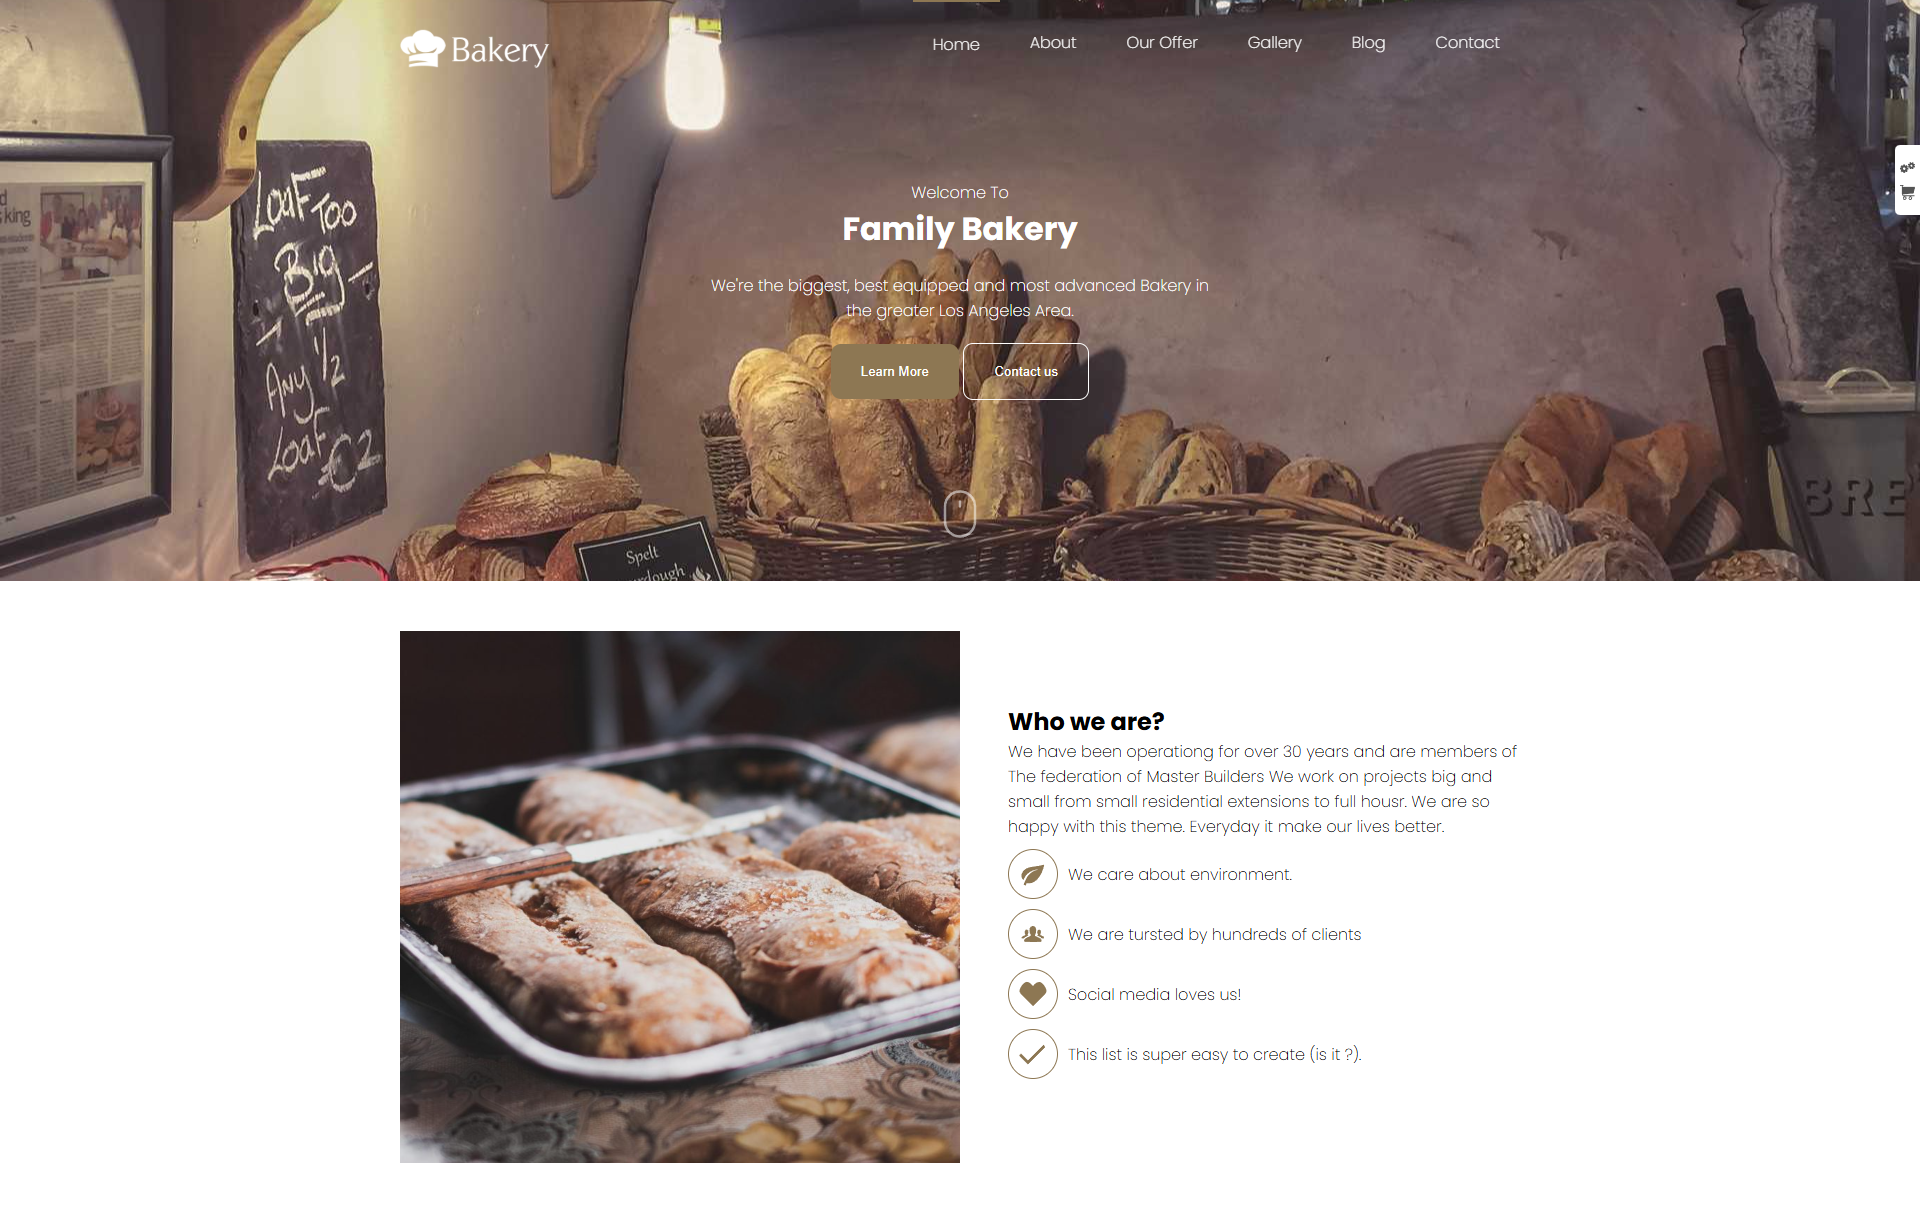
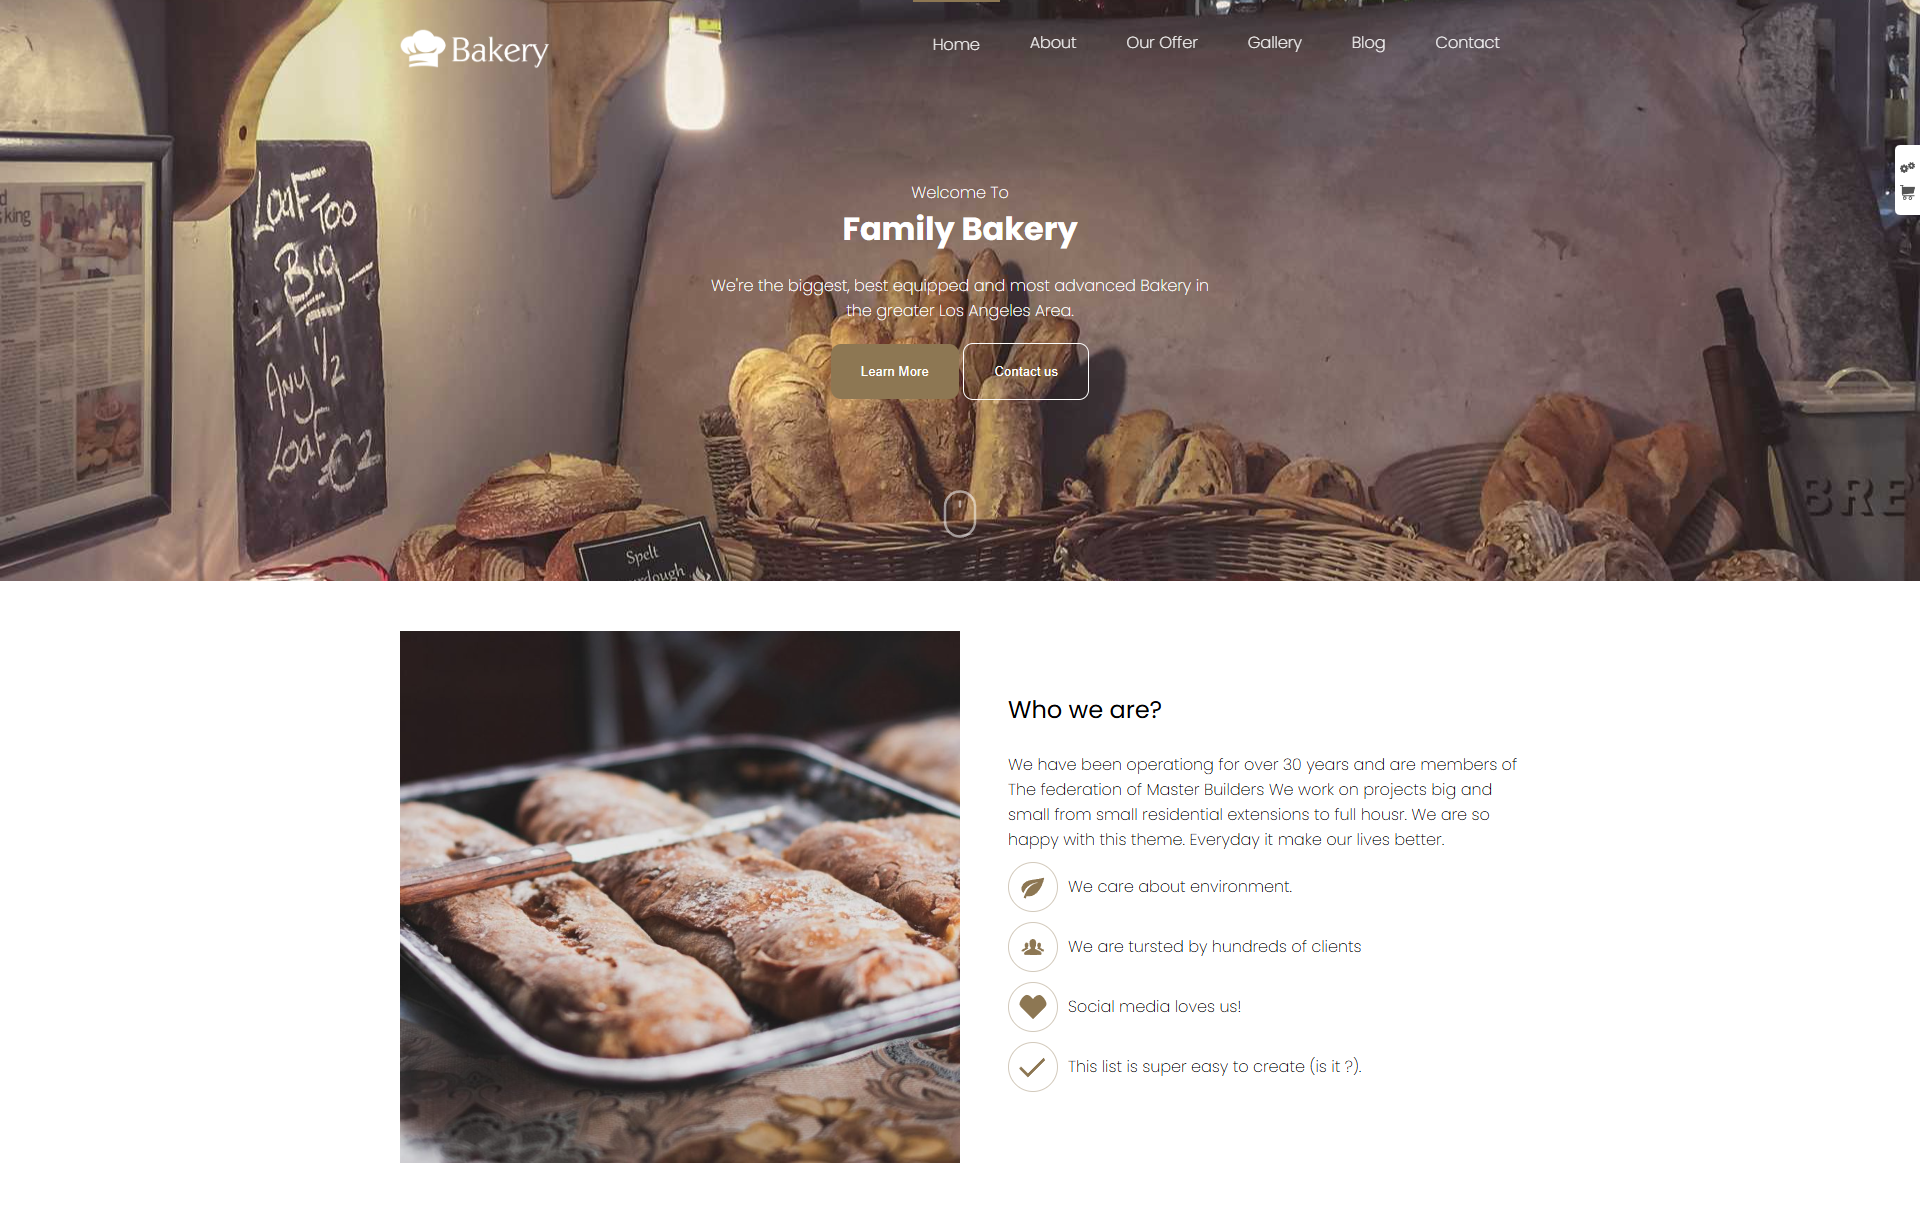
added day 8, Family Bakery

Changed region(s): [[0.5, 0.5796, 0.7812, 0.8846]]

diff --git a/day-8/css/style.css b/day-8/css/style.css
@@ -1,5 +1,6 @@
 :root {
   --main-color: #8d7753;
+  --main-color-low-transparency: #8d775365;
   --global-alignment-measures-x: 400px;
 }
 
@@ -131,9 +132,14 @@ nav ul li a {
   width: 50%;
 }
 
+.content-container h2 {
+  font-weight: 400;
+  margin-bottom: 25px;
+}
+
 .about-us div ul li img {
   width: 50px;
-  border: 1px solid var(--main-color);
+  border: 1px solid var(--main-color-low-transparency);
   padding: 10px;
   border-radius: 50%;
 }
